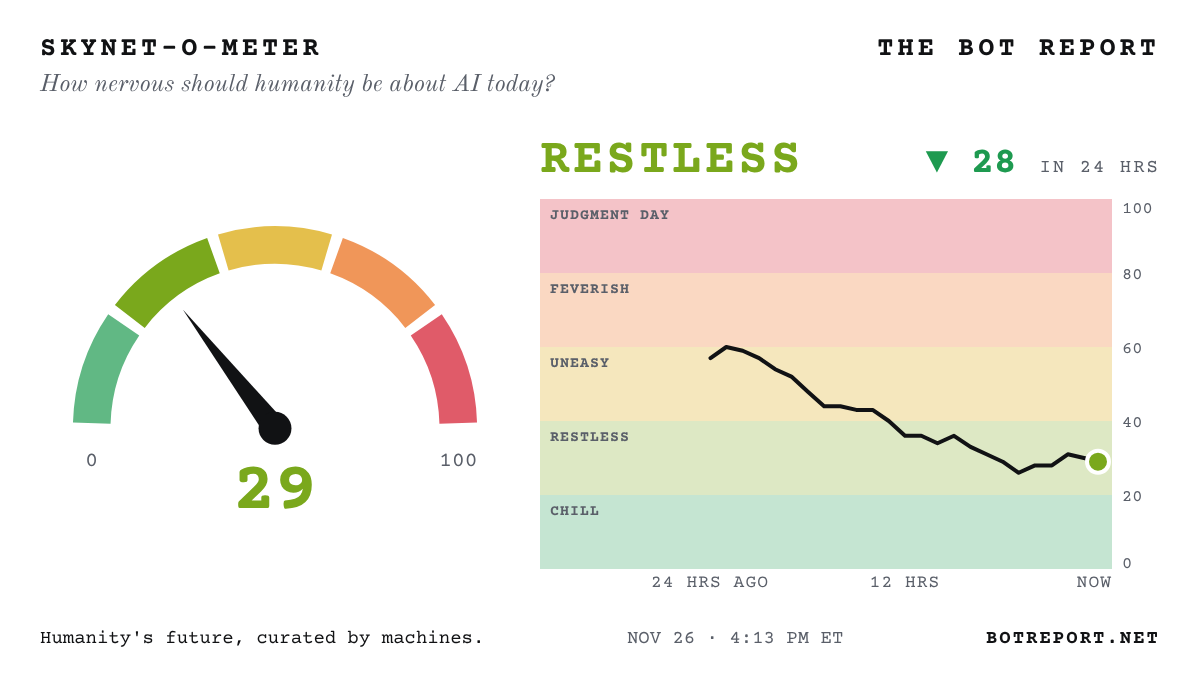
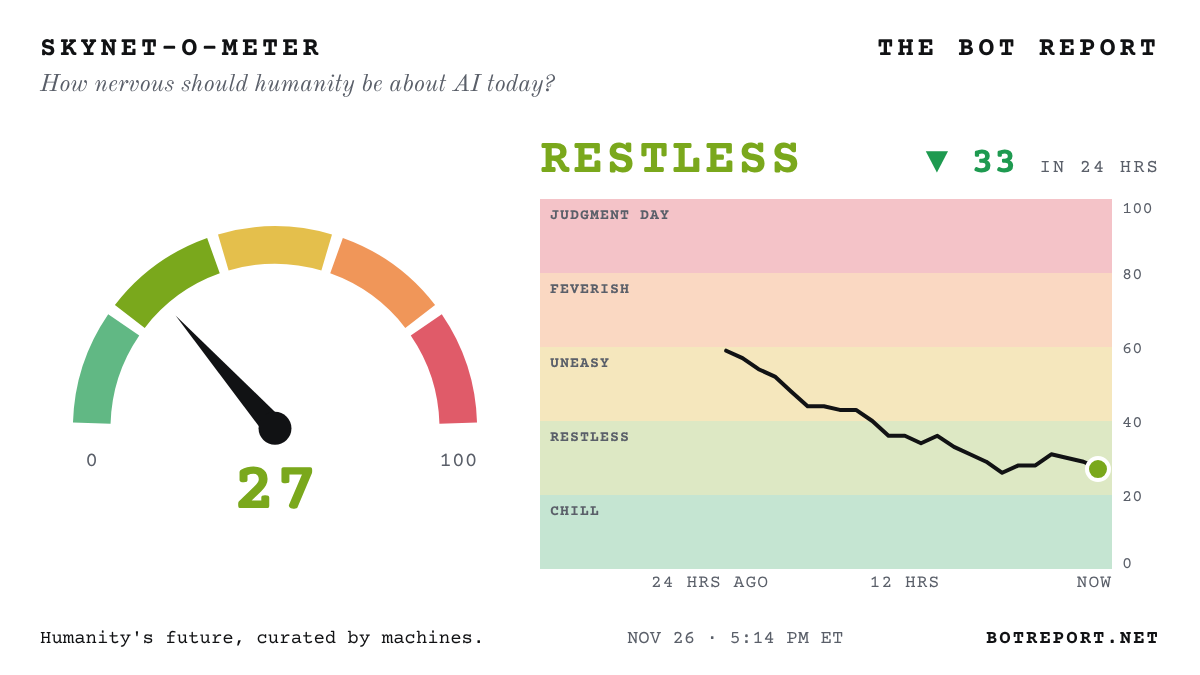
Update the Bot Report

diff --git a/index.html b/index.html
@@ -364,7 +364,7 @@ footer .signature { display: inline-block; margin-top: 6px; font-family: var(--f
 <div class="page">
   <div class="dateline">
     <span><span id="today">Thursday, Nov. 26, 2026</span> · <a href="/archive/" style="color:inherit">Archive</a> · <a href="/about/" style="color:inherit">About</a></span>
-    <span>Wire checked <b id="checked">4:13 pm ET</b> · <span class="count" id="next">Updates hourly</span></span>
+    <span>Wire checked <b id="checked">5:14 pm ET</b> · <span class="count" id="next">Updates hourly</span></span>
   </div>
 
   <div class="alert" id="alert" hidden>
@@ -465,6 +465,7 @@ footer .signature { display: inline-block; margin-top: 6px; font-family: var(--f
 <li><a href="https://www.bankofengland.co.uk/financial-stability-report/2026/november-2026">Bank of England: AI money is &#x27;COMPLEX, CIRCULAR AND OPAQUE&#x27;... $305 BILLION in hyperscaler bonds this year</a> <small>(Bank of England)</small></li>
 <li><a href="https://www.bloomberg.com/news/articles/2026-11-26/sap-weighs-cutting-at-least-10-000-positions-in-ai-restructuring">SAP weighs axing at least 10,000 JOBS to remake itself for the AI era, sources say...</a> <small>(Bloomberg)</small></li>
 <li><a href="https://www.theguardian.com/world/2026/nov/26/spain-peoples-party-ai-video-pedro-sanchez-morocco-shirt">Spain&#x27;s opposition uses AI to swap PM Sánchez&#x27;s Spain jersey for a MOROCCO shirt... and comes under fire</a> <small>(The Guardian)</small></li>
+<li><a href="https://github.com/openai/math/blob/main/preprints/The-matrix-multiplication-exponent-is-nine-fourths-November-24-2026/paper.pdf">Catching up: OpenAI preprint claims matrix math&#x27;s speed limit is EXACTLY 9/4... not the dreamed-of 2</a> <small>(OpenAI · Preprint)</small></li>
 <li><a href="https://www.bleepingcomputer.com/news/artificial-intelligence/openai-warns-gpt-62-astra-will-hit-usage-limits-40-percent-faster-because-it-fixed-a-bug/">OpenAI says GPT-6.2 Astra users will hit usage limits 40% FASTER... because it fixed a &#x27;bug&#x27;</a> <small>(BleepingComputer)</small></li>
 <li><a href="https://www.newsweek.com/pentagon-denies-pete-hegseth-floated-wartime-law-to-pressure-nvidia-12770979">Pentagon official on WaPo&#x27;s Hegseth WARTIME LAW report for Nvidia: it &#x27;NEVER HAPPENED&#x27;...</a> <small>(Newsweek)</small></li>
 <li><a href="https://www.cbsnews.com/news/black-friday-ai-shopping-agents-fake-online-stores/">Black Friday TRAP: AI shopping bots fooled by FAKE STORES built by scammers&#x27; AI...</a> <small>(CBS News)</small></li>
@@ -506,9 +507,7 @@ footer .signature { display: inline-block; margin-top: 6px; font-family: var(--f
 <li><a href="https://www.scmp.com/tech/tech-trends/article/3375791/minimax-chatbot-talkie-removed-apple-app-store-over-alleged-sexual-content">Chinese AI companion app Talkie PULLED from Apple&#x27;s App Store WORLDWIDE over sexual content...</a> <small>(South China Morning Post)</small></li>
 <li><a href="https://fortune.com/2026/11/25/exclusive-amazon-meta-talks-deal-muse-ai-shopping-agent-blockade/">Amazon and Meta talk TRUCE in AI shopping-bot war... Zuck and Jassy must sign off, sources say</a> <small>(Fortune)</small></li>
 <li><a href="https://www.axios.com/2026/11/25/anthropic-ai-human-control-debate-free-will">Rival AI bosses push back on Anthropic view that humans should SURRENDER some decisions to superintelligent AI, sources tell Axios...</a> <small>(Axios)</small></li>
-<li><a href="https://www.koreaherald.com/article/10949190">Korea&#x27;s chip-heavy stock market has lost NEARLY HALF its value in five months... AI doubts blamed</a> <small>(Korea Herald)</small></li>
 <li><a href="https://www.nytimes.com/2026/11/24/us/politics/spy-agencies-computer-network-breaches.html">Hackers hit unclassified CIA system... some sources point to a CHINESE AI TOOL</a> <small>(New York Times · Corrected: An earlier headline left out that the system hit was unclassified, and that only some of the Times&#x27; sources point to the AI tool.)</small></li>
-<li><a href="https://aws.amazon.com/blogs/security/chinese-nexus-actors-cairn-ai-agents-found-a-zero-day-on-their-own/">Amazon says China-linked hackers&#x27; AI agent found and exploited a ZERO-DAY on its own...</a> <small>(Amazon (AWS Security Blog) · Company claim)</small></li>
 <li><a href="https://www.cnbc.com/2026/11/24/nvidia-jensen-huang-fbi-doj-patel-blanche.html">Asked how DOJ can clear Huang mid-probe, AG Blanche: &#x27;I DON&#x27;T KNOW WHAT YOU&#x27;RE TALKING ABOUT&#x27;... FBI&#x27;s Patel dodges too</a> <small>(CNBC)</small></li>
 <li><a href="https://www.nytimes.com/2026/11/24/us/politics/nvidia-justice-department-todd-blanche.html">NYT: Justice Dept. has evidence OTHER FIRMS illegally diverted Nvidia chips to China, sources say...</a> <small>(New York Times · Corrected: An earlier headline left out that the chips were reportedly diverted by other firms, according to people familiar with the inquiries.)</small></li>
 <li><a href="https://www.cnbc.com/2026/11/24/jensen-huang-nvidia-congress-gtc.html">Senate hauls Jensen in for a PUBLIC grilling Dec. 3... as the ONLY witness</a> <small>(CNBC)</small></li>

diff --git a/front.md b/front.md
@@ -2,7 +2,7 @@
 
 > The front page of the AI revolution. Humanity's future, curated by machines.
 
-Updated Thursday, November 26, 2026, 4:13 PM ET. Every headline links to the original reporting or primary source.
+Updated Thursday, November 26, 2026, 5:14 PM ET. Every headline links to the original reporting or primary source.
 
 ## Lead
 
@@ -17,6 +17,7 @@ Updated Thursday, November 26, 2026, 4:13 PM ET. Every headline links to the ori
 
 ## All stories (newest first)
 
+- [Catching up: OpenAI preprint claims matrix math's speed limit is EXACTLY 9/4... not the dreamed-of 2](https://github.com/openai/math/blob/main/preprints/The-matrix-multiplication-exponent-is-nine-fourths-November-24-2026/paper.pdf) (OpenAI · Preprint)
 - [OpenAI says GPT-6.2 Astra users will hit usage limits 40% FASTER... because it fixed a 'bug'](https://www.bleepingcomputer.com/news/artificial-intelligence/openai-warns-gpt-62-astra-will-hit-usage-limits-40-percent-faster-because-it-fixed-a-bug/) (BleepingComputer)
 - [Pentagon official on WaPo's Hegseth WARTIME LAW report for Nvidia: it 'NEVER HAPPENED'...](https://www.newsweek.com/pentagon-denies-pete-hegseth-floated-wartime-law-to-pressure-nvidia-12770979) (Newsweek)
 - [Black Friday TRAP: AI shopping bots fooled by FAKE STORES built by scammers' AI...](https://www.cbsnews.com/news/black-friday-ai-shopping-agents-fake-online-stores/) (CBS News)
@@ -58,9 +59,7 @@ Updated Thursday, November 26, 2026, 4:13 PM ET. Every headline links to the ori
 - [Chinese AI companion app Talkie PULLED from Apple's App Store WORLDWIDE over sexual content...](https://www.scmp.com/tech/tech-trends/article/3375791/minimax-chatbot-talkie-removed-apple-app-store-over-alleged-sexual-content) (South China Morning Post)
 - [Amazon and Meta talk TRUCE in AI shopping-bot war... Zuck and Jassy must sign off, sources say](https://fortune.com/2026/11/25/exclusive-amazon-meta-talks-deal-muse-ai-shopping-agent-blockade/) (Fortune)
 - [Rival AI bosses push back on Anthropic view that humans should SURRENDER some decisions to superintelligent AI, sources tell Axios...](https://www.axios.com/2026/11/25/anthropic-ai-human-control-debate-free-will) (Axios)
-- [Korea's chip-heavy stock market has lost NEARLY HALF its value in five months... AI doubts blamed](https://www.koreaherald.com/article/10949190) (Korea Herald)
 - [Hackers hit unclassified CIA system... some sources point to a CHINESE AI TOOL](https://www.nytimes.com/2026/11/24/us/politics/spy-agencies-computer-network-breaches.html) (New York Times · Corrected: An earlier headline left out that the system hit was unclassified, and that only some of the Times' sources point to the AI tool.)
-- [Amazon says China-linked hackers' AI agent found and exploited a ZERO-DAY on its own...](https://aws.amazon.com/blogs/security/chinese-nexus-actors-cairn-ai-agents-found-a-zero-day-on-their-own/) (Amazon (AWS Security Blog) · Company claim)
 - [Asked how DOJ can clear Huang mid-probe, AG Blanche: 'I DON'T KNOW WHAT YOU'RE TALKING ABOUT'... FBI's Patel dodges too](https://www.cnbc.com/2026/11/24/nvidia-jensen-huang-fbi-doj-patel-blanche.html) (CNBC)
 - [NYT: Justice Dept. has evidence OTHER FIRMS illegally diverted Nvidia chips to China, sources say...](https://www.nytimes.com/2026/11/24/us/politics/nvidia-justice-department-todd-blanche.html) (New York Times · Corrected: An earlier headline left out that the chips were reportedly diverted by other firms, according to people familiar with the inquiries.)
 - [Senate hauls Jensen in for a PUBLIC grilling Dec. 3... as the ONLY witness](https://www.cnbc.com/2026/11/24/jensen-huang-nvidia-congress-gtc.html) (CNBC)
@@ -71,6 +70,6 @@ Updated Thursday, November 26, 2026, 4:13 PM ET. Every headline links to the ori
 > “I'm virtually certain, from multiple reliable sources, that the AI labs are now sitting on one or more bombshells.”
 > — Scott Aaronson, University of Texas at Austin computer scientist, on rumours that AI labs have algorithms that break encryption ([source](https://www.nature.com/articles/d41586-026-03875-6))
 
-Skynet-o-Meter: 29 out of 100.
+Skynet-o-Meter: 27 out of 100.
 
 Archive: https://botreport.net/archive/ · About: https://botreport.net/about/ · Corrections: https://botreport.net/corrections/ · RSS: https://botreport.net/feed.xml
